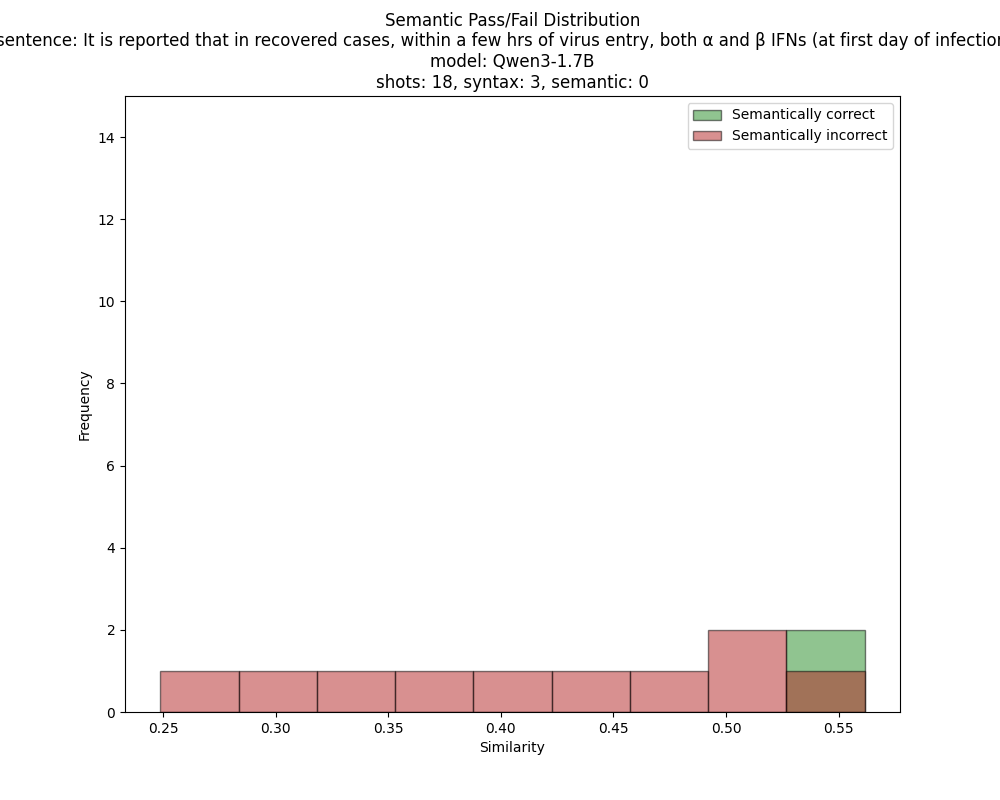
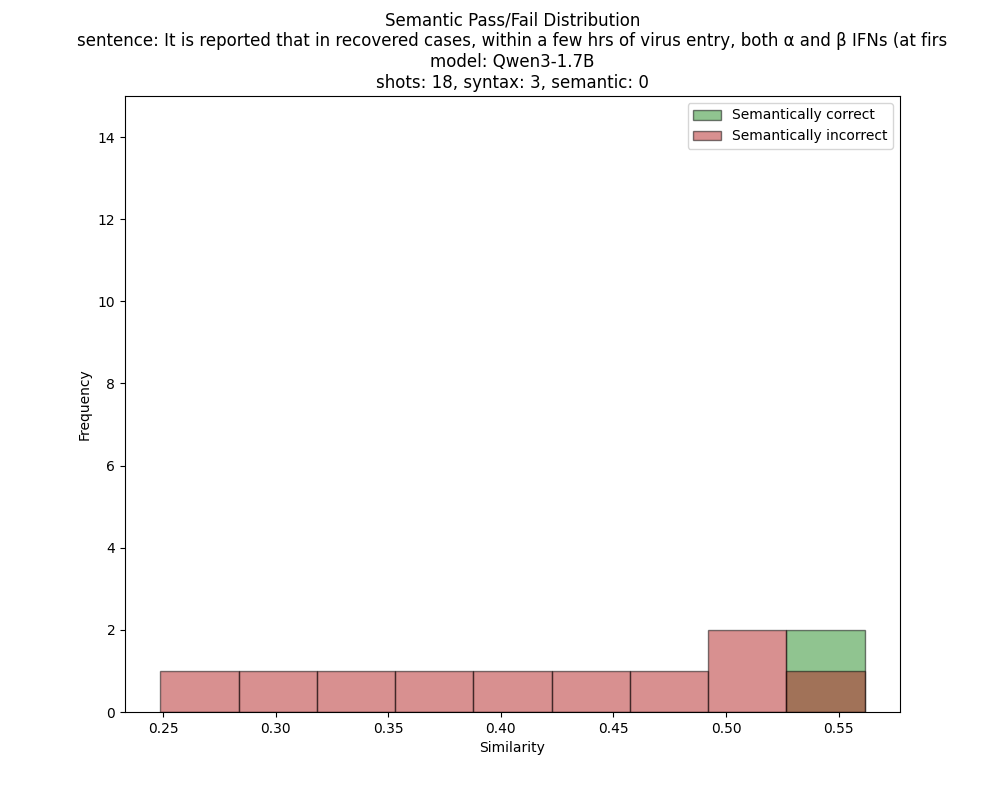
again

Changed region(s): [[0.0, 0.0312, 1.0, 0.0625]]

diff --git a/evaluations/generate_semantic_distribution_plots.py b/evaluations/generate_semantic_distribution_plots.py
@@ -86,8 +86,8 @@ for _id, sentence in enumerate(res.keys()): # key is sentence
     plt.xlabel('Similarity')
     plt.ylabel('Frequency')
     plt.ylim(0, 15)
-    if len(sentence) >= 121:
-        m = sentence[:120]
+    if len(sentence) >= 100:
+        m = sentence[:99]
     else:
         m = sentence
     plt.title(f'Semantic Pass/Fail Distribution\nsentence: {m}\nmodel: {model_name}\nshots: {shot_count}, syntax: {syntax_count}, semantic: {semantic_count}')
